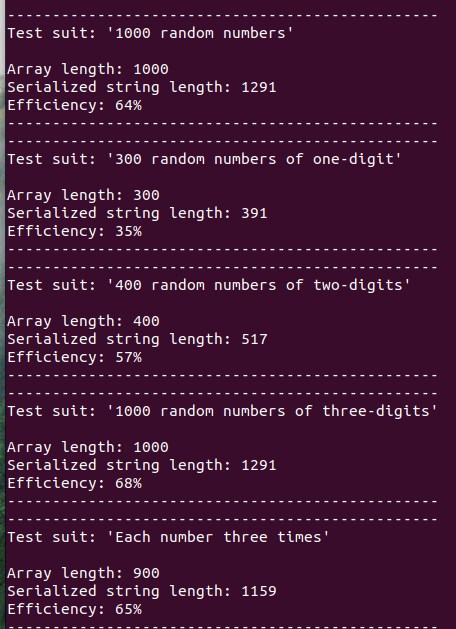
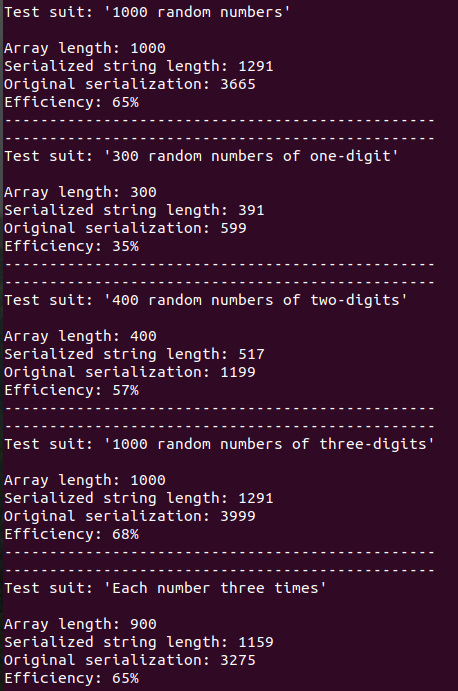
Update output

Changed region(s): [[0.0, 0.0, 0.9825, 1.0]]

diff --git a/test.js b/test.js
@@ -59,8 +59,8 @@ function testFun(numArr, description) {
   const serialized = serialize(numArr);
   const deserialized = deserialize(serialized);
 
-  //console.log(`Serialized string: "${serialized}"`);
   console.log(`Serialized string length: ${serialized.length}`);
+  console.log(`Original serialization: ${stdLength}`);
 
   assert.deepStrictEqual(deserialized, numArr, 'Deserialized and original arrays are not equal');
   
